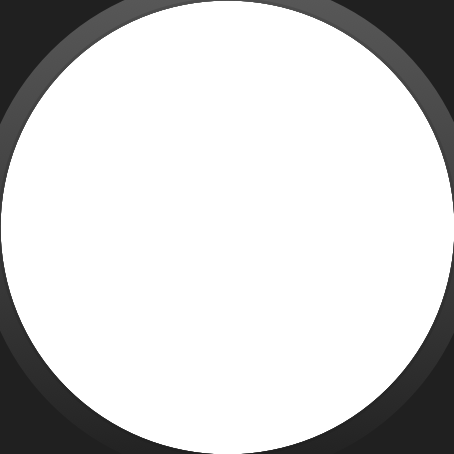
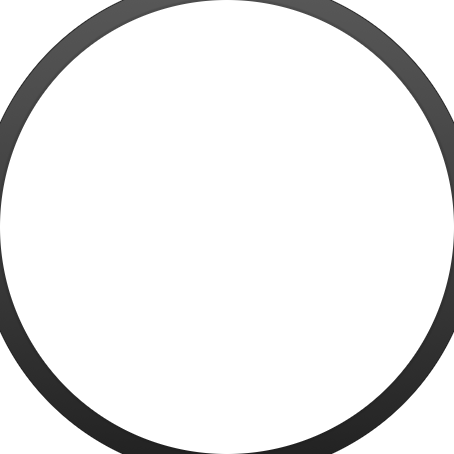
Fix Wear OS round device skins
Update layout definitions, bezels, and masks for wearos_large_round and
wearos_small_round. Remove these skins from the exclusion list in
SkinDefinitionTest, and update the affected EmulatorToolWindowPanelTest
expectations and golden image.

Bug: N/A
Test: adjusted

diff --git a/streaming/testSrc/com/android/tools/idea/streaming/emulator/EmulatorToolWindowPanelTest.kt b/streaming/testSrc/com/android/tools/idea/streaming/emulator/EmulatorToolWindowPanelTest.kt
@@ -1210,8 +1210,8 @@ class EmulatorToolWindowPanelTest {
     panel.size = Dimension(200, 527)
     fakeUi.layoutAndDispatchEvents()
     val call1 = getStreamScreenshotCallAndWaitForFrame(panel, ++frameNumber)
-    assertThat(shortDebugString(call1.request)).isEqualTo("format: RGB888 width: 168 height: 287")
-    assertThat(emulatorView.projectionRectangle?.width).isEqualTo(168)
+    assertThat(shortDebugString(call1.request)).isEqualTo("format: RGB888 width: 181 height: 308")
+    assertThat(emulatorView.projectionRectangle?.width).isEqualTo(181)
     assertThat(emulatorView.canZoom(ZoomType.IN)).isTrue()
     assertThat(emulatorView.canZoom(ZoomType.OUT)).isFalse()
     assertThat(emulatorView.canZoom(ZoomType.ACTUAL)).isTrue()
@@ -1256,7 +1256,7 @@ class EmulatorToolWindowPanelTest {
     assertThat(call2.completion.isCancelled).isFalse() // The latest call has not been canceled.
     assertThat(call2.completion.isDone).isFalse() // The latest call is still ongoing.
     fakeUi.render() // Trigger displayRectangle update.
-    assertThat(emulatorView.projectionRectangle?.width).isEqualTo(674)
+    assertThat(emulatorView.projectionRectangle?.width).isEqualTo(723)
     assertThat(emulatorView.canZoom(ZoomType.IN)).isTrue()
     assertThat(emulatorView.canZoom(ZoomType.OUT)).isTrue()
     assertThat(emulatorView.canZoom(ZoomType.ACTUAL)).isTrue()
@@ -1267,7 +1267,7 @@ class EmulatorToolWindowPanelTest {
     assertThat(call2.completion.isCancelled).isFalse() // The latest call has not been canceled.
     assertThat(call2.completion.isDone).isFalse() // The latest call is still ongoing.
     fakeUi.render() // Trigger displayRectangle update.
-    assertThat(emulatorView.projectionRectangle?.width).isEqualTo(716)
+    assertThat(emulatorView.projectionRectangle?.width).isEqualTo(768)
     assertThat(emulatorView.canZoom(ZoomType.IN)).isTrue()
     assertThat(emulatorView.canZoom(ZoomType.OUT)).isTrue()
     assertThat(emulatorView.canZoom(ZoomType.ACTUAL)).isTrue()

diff --git a/adt-ui/src/test/java/com/android/tools/adtui/device/SkinDefinitionTest.kt b/adt-ui/src/test/java/com/android/tools/adtui/device/SkinDefinitionTest.kt
@@ -264,8 +264,6 @@ class SkinDefinitionTest {
         "tv_720p",
         "tv_1080p",
         "tv_4k",
-        "wearos_large_round", // TODO: Remove exclusion when the skin is fixed.
-        "wearos_small_round", // TODO: Remove exclusion when the skin is fixed.
         "wearos_square",
       )
     val skinProblems = mutableListOf<String>()
